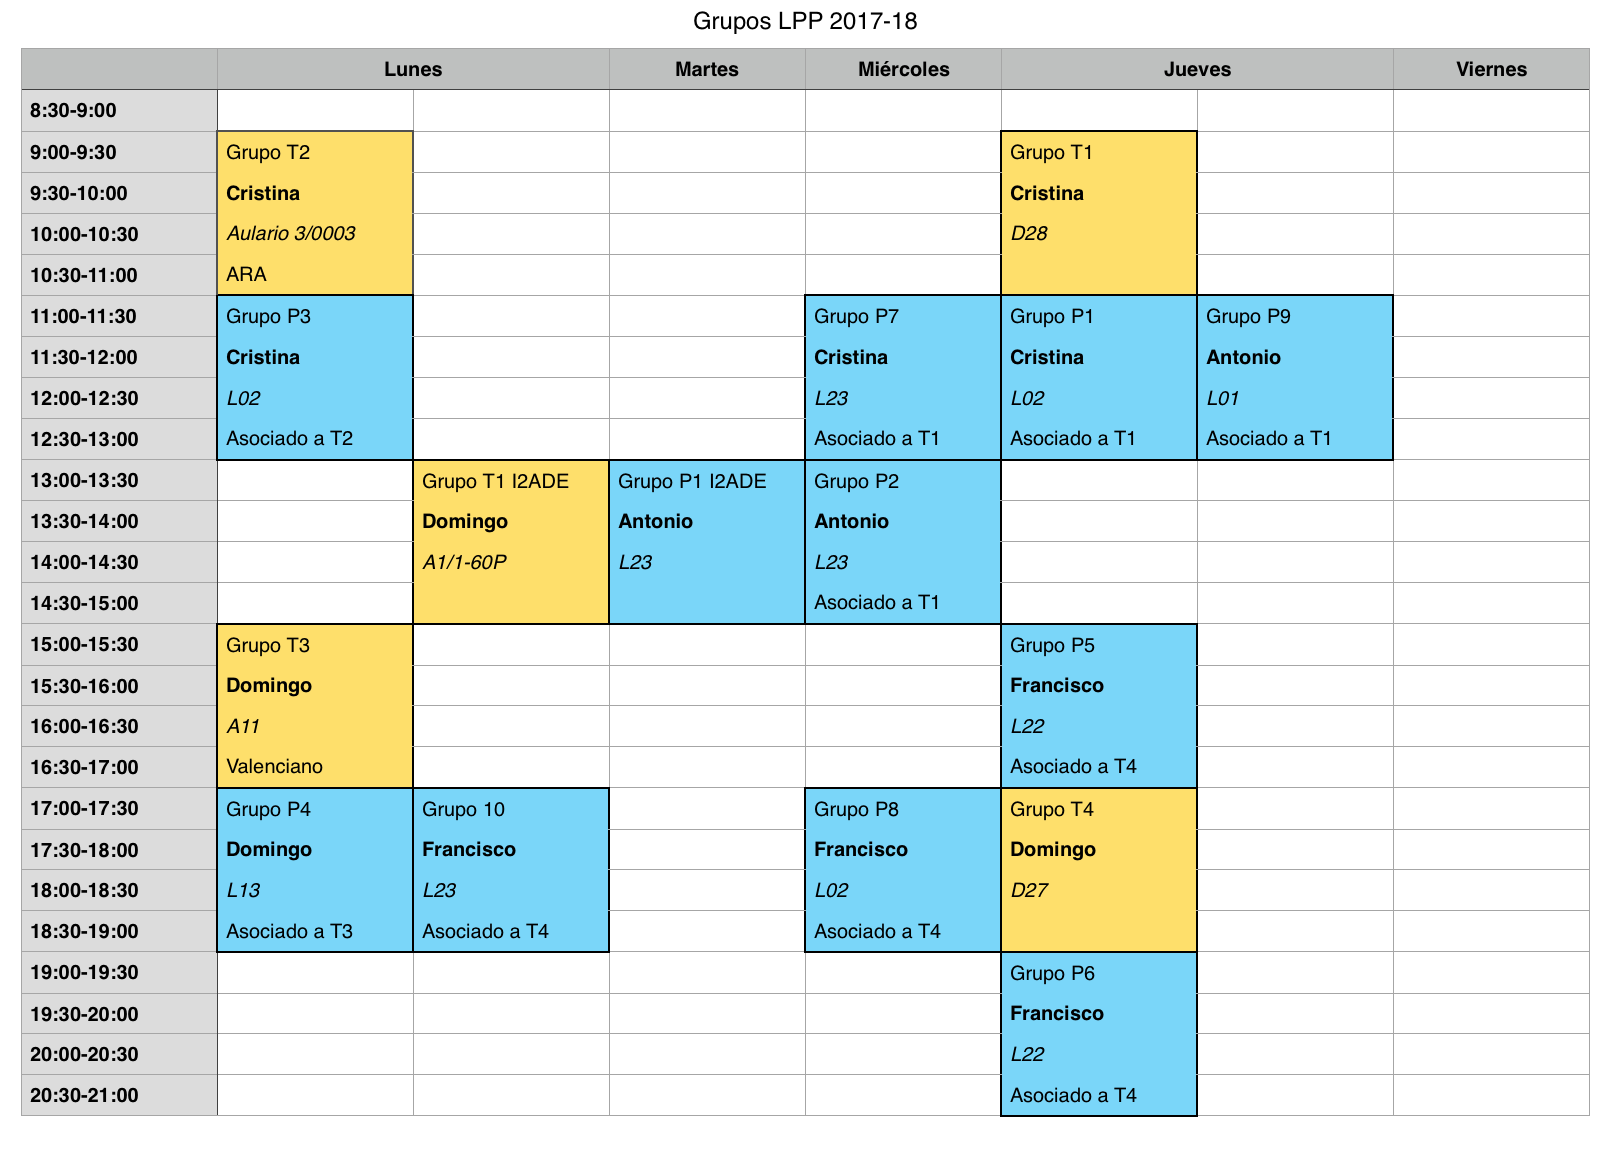
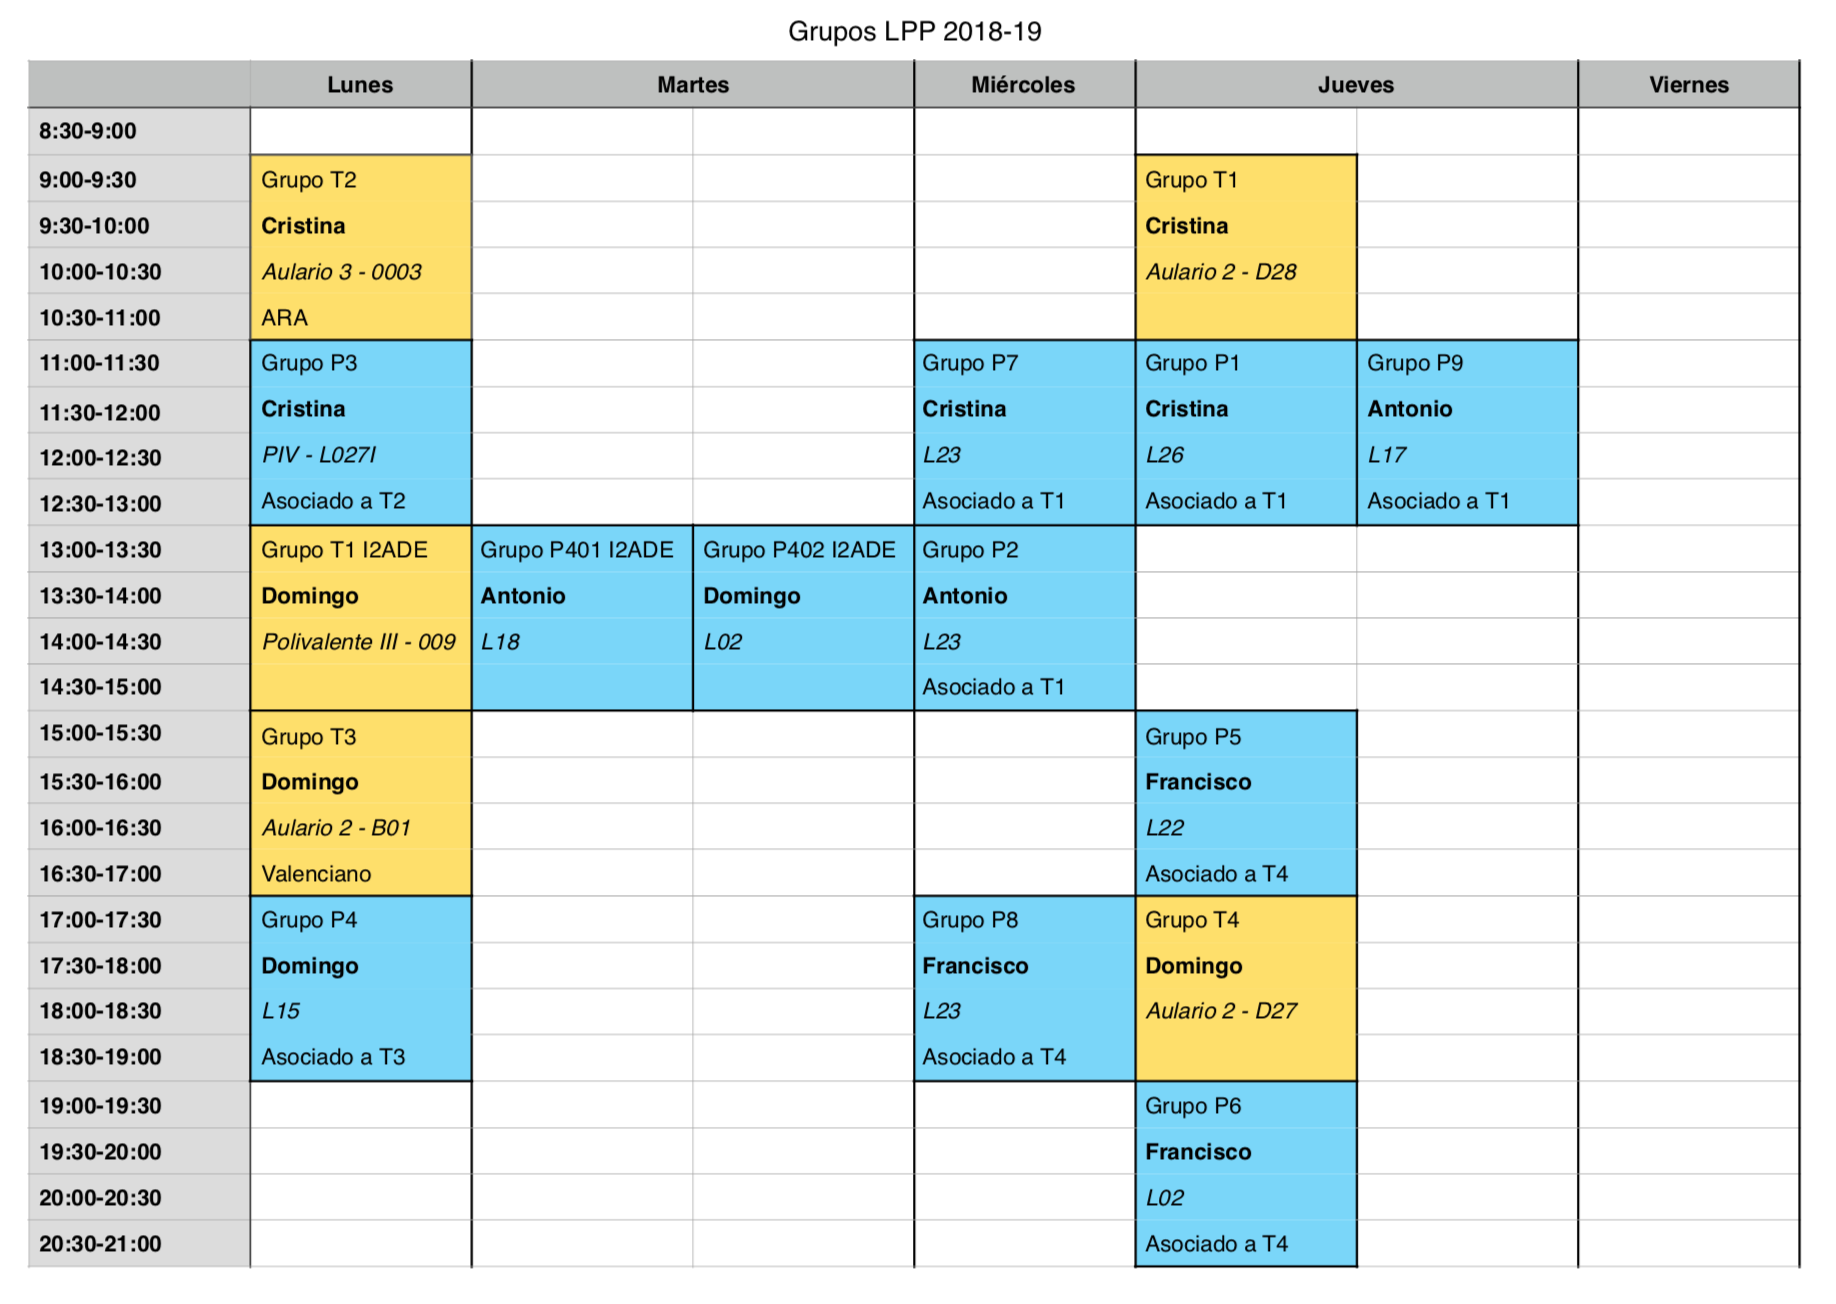
Actualizada descripción de la asignatura

diff --git a/docs/teoria/tema00-descripcion-asignatura/tema00-descripcion-asignatura.md b/docs/teoria/tema00-descripcion-asignatura/tema00-descripcion-asignatura.md
@@ -1,11 +1,7 @@
 
-## Lenguajes y Paradigmas de Programación
+# Lenguajes y Paradigmas de Programación
 
-Toda la información está disponible en el [sitio Moodle de LPP](https://moodle2017-18.ua.es/moodle/course/view.php?id=828) y en la
-[ficha del campus virtual](http://cv1.cpd.ua.es/ConsPlanesEstudio/cvFichaAsiEEES.asp?wCodEst=C203&wcodasi=34017&wLengua=C&scaca=2017-18).
-
-
-### Datos académicos de la asignatura
+## Datos académicos de la asignatura
 
 **Departamento de Ciencia de la Computación e Inteligencia Artificial**  
 **6 créditos ECTS**: 1 clase de teoría de 2 h. y 1 clase de 
@@ -13,24 +9,26 @@ prácticas de 2 h. a la semana
 **Profesores**:  
 
 * Antonio Botía ([e-mail](mailto:abotia@dccia.ua.es)): Grupos de
-  prácticas: 2, 9 y 40
+  prácticas: 2, 9 y 401
 * Domingo Gallardo ([e-mail](mailto:domingo.gallardo@ua.es)): Profesor
   coordinador de la asignatura. Grupos de teoría: 3, 4 y 40. Grupos de
-  prácticas: 4 y 8. 
+  prácticas: 4 y 402
 * Francisco Martínez ([e-mail](mailto:fmartine@ua.es)): Grupos de
-  prácticas: 5, 6, 8 y 10 
+  prácticas: 5, 6 y 8
 * Cristina Pomares ([e-mail](mailto:cpomares@ua.es)): Grupos de
   teoría: 1 y 2. Grupos de prácticas: 1, 3 y 7.
 
-### Recursos de la asignatura
+## Recursos de la asignatura
 
-* [Sitio Moodle](https://moodle2017-18.ua.es/moodle/course/view.php?id=828)
+* [Ficha de la asignatura](https://cvnet.cpd.ua.es/Guia-Docente/GuiaDocente/Index?wCodEst=C203&wcodasi=34017&wlengua=es&scaca=2018-19)
+* [Apuntes de la asignatura (teoría, seminarios y prácticas)](https://domingogallardo.github.io/apuntes-lpp/)
+* [Sitio Moodle](https://moodle2018-19.ua.es/moodle/course/view.php?id=3922)
   abierto y accesible a toda la comunidad educativa, contiene los
   apuntes, transparencias, prácticas y otros materiales docentes
-* [Foro de consultas y anuncios](https://moodle2017-18.ua.es/moodle/mod/forum/view.php?id=8429)
+* [Foro de consultas y anuncios](https://moodle2018-19.ua.es/moodle/mod/forum/view.php?id=37963)
   en el sitio Moodle (sólo accesible a estudiantes)
 
-### Objetivos y competencias
+## Objetivos y competencias
 
 **Objetivos**:
 
@@ -70,7 +68,7 @@ dominios concretos.
   procedural clásico, reconociendo las ventajas que aporta en cuanto a
   abstracción, reutilización y modificación de código.
 
-### Temario
+## Temario
 
 * Tema 1. **Lenguajes de programación**: Historia de los lenguajes de
   programación. Elementos de los lenguajes de
@@ -118,9 +116,9 @@ siguiente figura.
 <img src="imagenes/planificacion.png" width="800px"/>
 
 
-### Prácticas
+## Prácticas
 
-Durante las horas prácticas se realizarán de forma individual
+En casa y durante las horas prácticas se realizarán de forma individual
 ejercicios de programación relacionados con los conceptos que se están
 estudiando en ese momento que servirán para reforzar y profundizar en
 las competencias de la asignatura. Para el desarrollo de las prácticas
@@ -133,37 +131,46 @@ desarrollo:
   Apple, con conceptos modernos de programación funcional y
   programación orientada a objetos)
 
-Se realizarán 10 sesiones de ejercicios de prácticas de una semana de
-duración y 2 seminarios de lenguajes. En las sesiones de ejercicios de
-prácticas se propondrá una hoja de ejercicios con 5 o 6 problemas de
-programación relacionados con el tema de la sesión de teoría. Durante
-la sesión de prácticas se deberán realizar como mínimo los ejercicios
-indicados. Al final de la clase de prácticas se realizará un
-**cuestionario de seguimiento** individual que será necesario superar
-para conseguir la calificación de seguimiento de las clases prácticas
-(un 10% de la nota total de la asignatura).
+Se realizarán 11 sesiones de ejercicios de prácticas de una semana de
+duración y 2 seminarios sobre los anteriores lenguajes de programación.
 
-La hoja de ejercicios se deberá terminar durante el resto de la semana
-y entregar en Moodle en la fecha indicada. Cuando todos los grupos
-hayan entregado las prácticas, se publicará una hoja de soluciones con
-distintas soluciones posibles para los ejercicios planteados.
+Para las sesiones de prácticas se propondrá una hoja de ejercicios con
+5 o 6 problemas de programación relacionados con los conceptos vistos
+en la sesión de teoría. La hoja de ejercicios estará disponible
+inmediatamente después de terminar la teoría y se dispondrá de una
+semana para su realización, hasta la sesión de prácticas de la semana
+siguiente.
 
-Al comienzo de cada sesión de prácticas el profesor resolverá dudas
-sobre la última hoja de soluciones publicada. Después se trabajará en
-la hoja de ejercicios de la semana actual y el profesor estará
-disponible para resolver dudas y dar pistas sobre cómo atacar los
-problemas.
+Durante la semana, mientras se resuelven los ejercicios de la hoja, se
+podrán consultar las dudas que puedan surgir en el foro de la
+asignatura (en Moodle) y con tutorías a los profesores. Es preferible el foro,
+porque de esta forma las contestaciones y aclaraciones serán
+compartidas con el resto de compañeros.
 
-### Horarios
+En la sesión de prácticas se terminará la hoja de ejercicios,
+completando y corrigiendo el trabajo realizado en casa. Durante la
+sesión de prácticas el profesor estará disponible para resolver dudas
+y dar pistas sobre cómo atacar los problemas.
 
-La distribución de grupos del curso 2017-18 es la siguiente:
+Al final de la clase de prácticas se realizará un **cuestionario de
+prácticas** individual sobre los ejercicios propuestos y sobre los
+conceptos de teoría asociados.
+
+La nota media de todos los cuestionarios formará parte de la
+calificación final de la asignatura, ponderada en un 20%.
+
+Una vez realizado el cuestionario y terminada la hoja de ejercicios se
+entregará su solución en Moodle para su archivo.
+
+## Horarios
+
+La distribución de grupos del curso 2018-19 es la siguiente:
 
 <img src="imagenes/horario.png" width="800px"/>
 
-### Evaluación
+## Evaluación
 
-#### Convocatoria normal (evaluación continua)
-
+### Convocatoria normal C3 (evaluación continua)
 
 La asignatura se divide en 3 bloques temáticos, todos ellos de igual
 duración, en los que se utilizará el lenguaje de programación que
@@ -174,47 +181,18 @@ aparece entre paréntesis:
 3. Programación funcional en Swift y programación orientada a objetos (Swift)
 
 Para cada bloque temático se realizará un examen parcial escrito que
-ponderará un 30% (90% en total) en la nota final.
+ponderará un 26,67% (80% en total) en la nota final.
  
-El 10% restante para la nota final se obtendrá por el seguimiento
-de las clases de prácticas, según se explica a continuación.
+El 20% restante para la nota final se obtendrá con la nota media de
+los cuestionarios realizados en las sesiones de prácticas.
 
-Las sesiones prácticas consistirán en ejercicios individuales de
-programación sobre los conceptos explicados en la clase de teoría de
-la semana anterior. Evidentemente, para poder realizar correctamente
-estos ejercicios se deberá haber estudiado los conceptos previamente
-explicados.
-
-Al final de cada sesión de prácticas se realizará un **cuestionario de
-seguimiento**, una pequeña prueba tipo test sobre los ejercicios
-realizados y los conceptos asociados. La nota final de seguimiento
-de las sesiones prácticas será la media de estas calificaciones.
-
-La calificación total será la media ponderada de las calificaciones de
-cada parcial y la media de los 11 cuestionarios de seguimiento,
-condicionado esto último a que se haya superado el mínimo de
-cuestionarios aprobados.
-
-Ejemplo 1: un estudiante que ha obtenido un 4’5, 5 y 4’5 en los
-exámenes parciales y un 8 en los cuestionarios de prácticas obtendría
-de nota final:
-
-8 * 0'1 + 4’5 * 0’3 + 5 * 0’3 + 4’5 * 0’3 = 5
-
-Ejemplo 2: un estudiante con las mismas calificaciones en los
-parciales pero con un 0 en los cuestionarios de prácticas:
-
- 
-0 + 4’5 * 0’3 + 5 * 0’3 + 4’5 * 0’3 = 4’2
-
-
-#### Convocatoria extraordinaria
+### Convocatoria extraordinaria C4
 
 En la convocatoria extraordinaria se realizará un examen final sobre
 todos los bloques temáticos cuya calificación representará el 100% de
 la nota de la asignatura.
 
-#### Consejos para aprender con éxito los contenidos de la asignatura
+## Consejos para aprender con éxito los contenidos de la asignatura
 
 El consejo fundamental para aprobar la asignatura es **trabajar todas
 las semanas e intentar seguir el ritmo de la asignatura**. Los
@@ -306,7 +284,7 @@ Plantearse uno mismo problemas:
 > superarla simplemente tienes que hacer ejercicios y también
 > plantearte tú mismo nuevos ejercicios."
 
-### Bibliografía
+## Bibliografía
 
 En Moodle se publican los apuntes de la asignatura, con ejercicios,
 explicaciones y ejemplos de todos los conceptos estudiados, tanto en
@@ -328,6 +306,6 @@ Para ampliar algunos conceptos se recomiendan los dos siguientes manuales:
 
 ----
 
-Lenguajes y Paradigmas de Programación, curso 2017-18  
+Lenguajes y Paradigmas de Programación, curso 2018-19  
 © Departamento Ciencia de la Computación e Inteligencia Artificial, Universidad de Alicante  
 Domingo Gallardo, Cristina Pomares, Antonio Botía, Francisco Martínez
